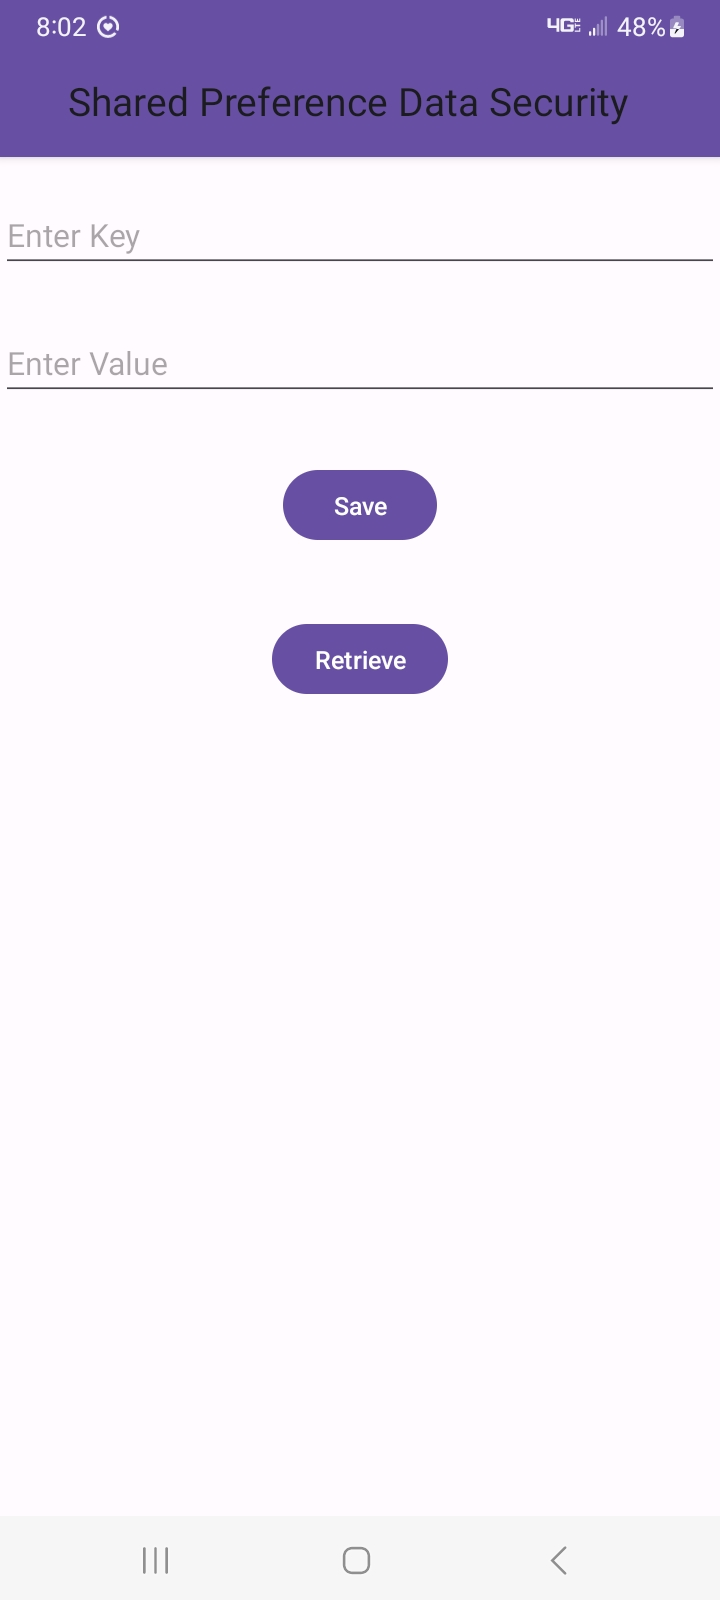
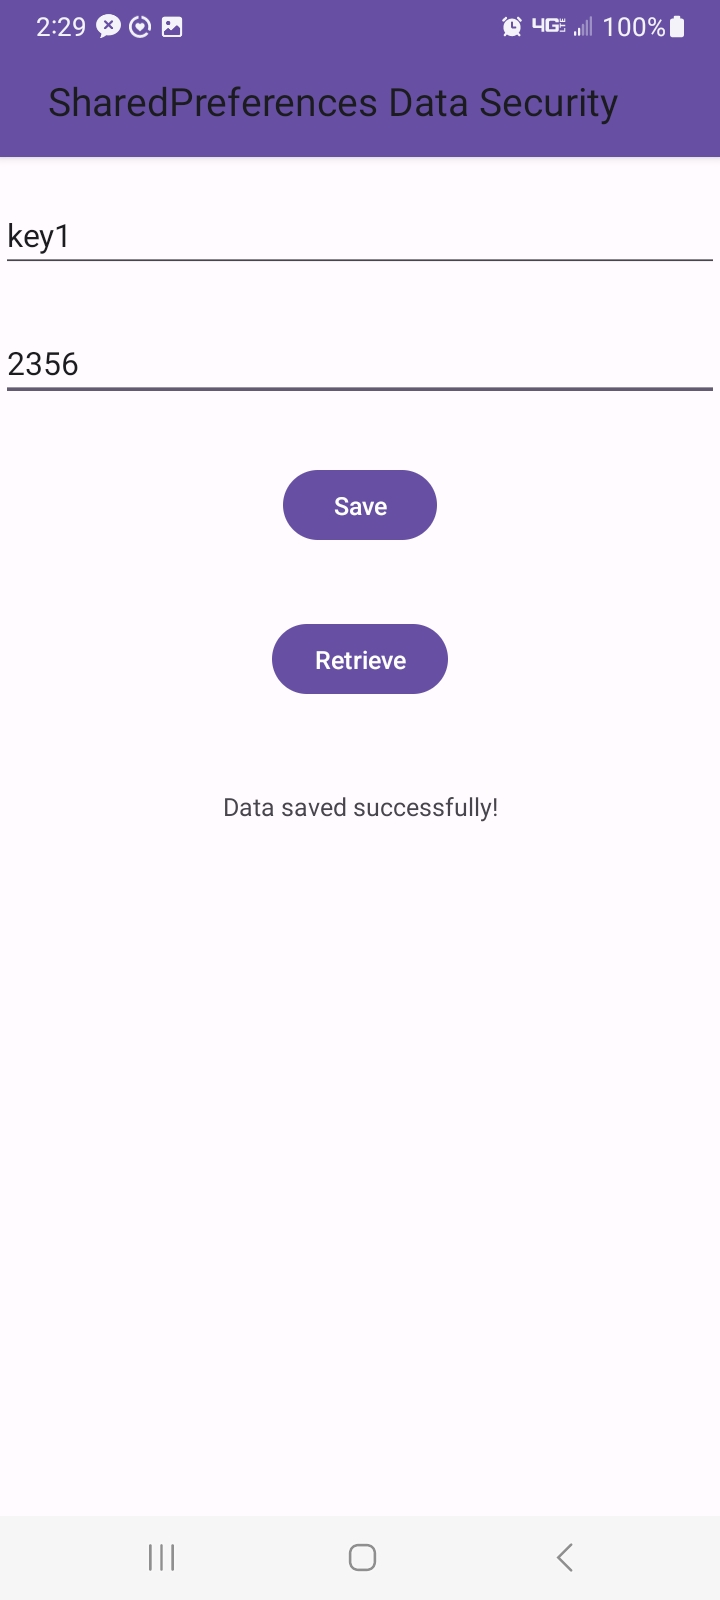
Some file adjustments

diff --git a/SharedPrefsSecurity/app/src/main/java/com/zyasin/sharedprefssecurity/MainActivity.kt b/SharedPrefsSecurity/app/src/main/java/com/zyasin/sharedprefssecurity/MainActivity.kt
@@ -30,7 +30,7 @@ class MainActivity : AppCompatActivity() {
         setSupportActionBar(toolbar)
 
         // Set the title
-        supportActionBar?.title = "Shared Preference Data Security"
+        supportActionBar?.title = "  SharedPreferences Data Security"
 
 
         keyEditText = findViewById(R.id.keyEditText)

diff --git a/SharedPrefsSecurity/README.md b/SharedPrefsSecurity/README.md
@@ -1,6 +1,6 @@
 Here by using EncryptedSharedPreferences class from the Jetpack Security library in Android, the data stored in the SharedPreferences file is encrypted. It uses 
 encryption schemes for both the keys and values. The key encryption scheme is set to AES256_SIV, and the value encryption scheme is set to AES256_GCM, which 
 are strong encryption algorithms. As a result, even if someone gains access to the SharedPreferences xml file, the data will be in encrypted form. Additional
-security layers can be added for more sensitive data. ![SharedPrefsSecurityImage](images/SharedPrefsSecurity1.jpg) ![SharedPrefsSecurityImage](images/SharedPrefsSecurity2.jpg)
-![SharedPrefsSecurityImage](images/SharedPrefsSecurity3.jpg) ![SharedPrefsSecurityImage](images/SharedPrefsSecurity4.jpg) ![SharedPrefsSecurityImage](images/SharedPrefsSecurity5.jpg)
+security layers can be added for more sensitive data.  
+![SharedPrefsSecurityImage](images/SharedPrefsSecurity1.jpg) ![SharedPrefsSecurityImage](images/SharedPrefsSecurity2.jpg)![SharedPrefsSecurityImage](images/SharedPrefsSecurity3.jpg)
 ![SharedPrefsSecurityImage](images/encrypted_prefs.xml.png)
